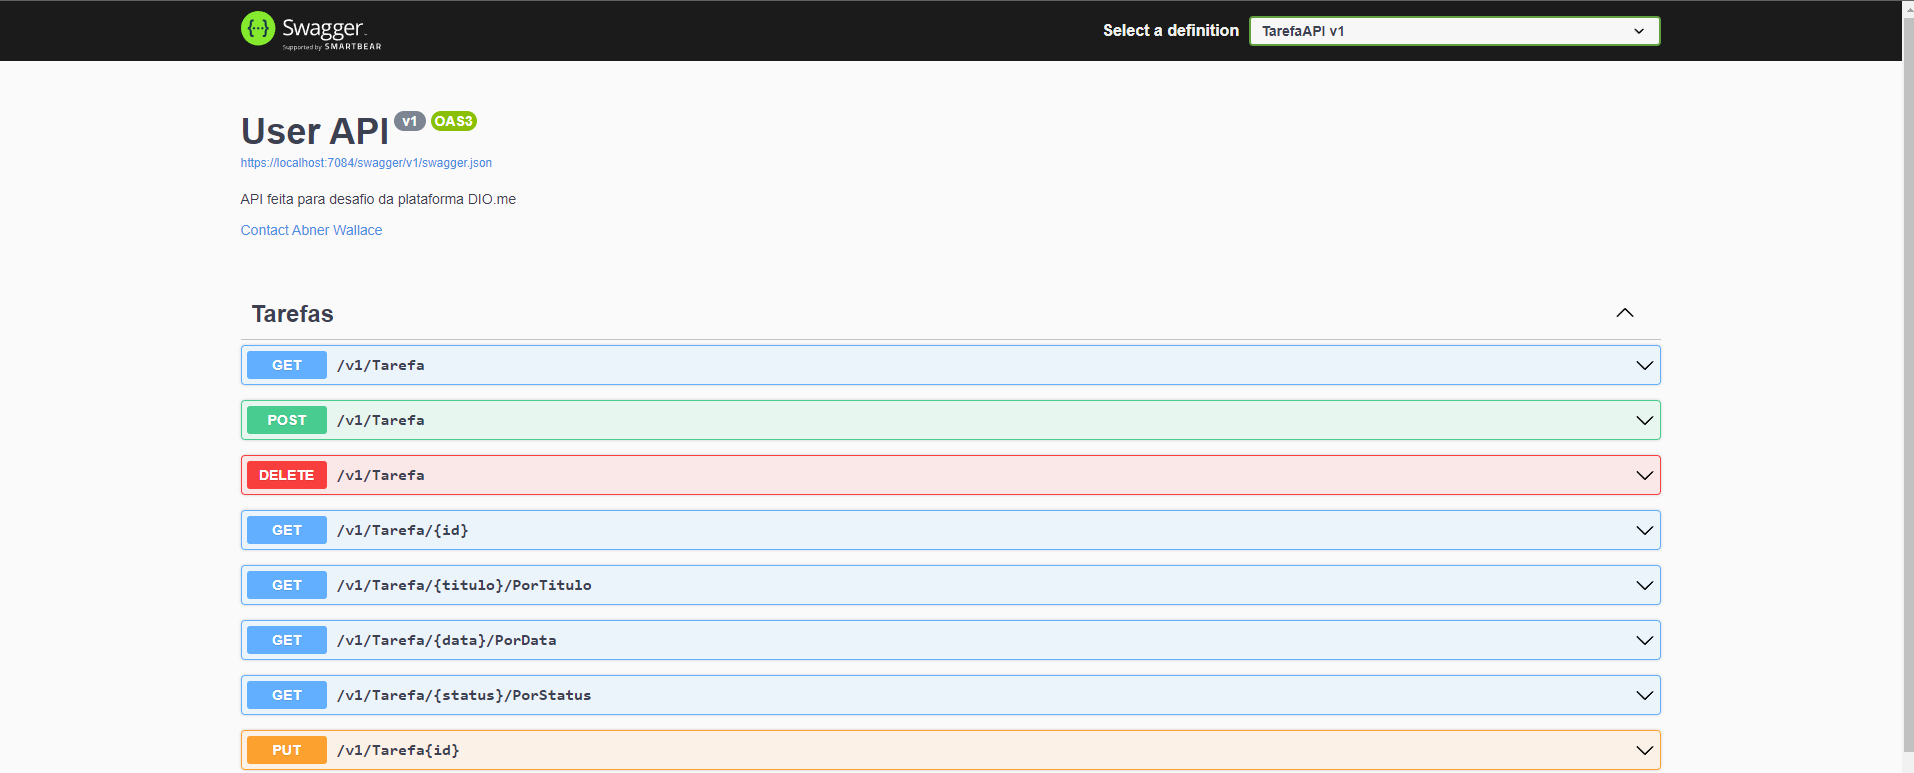
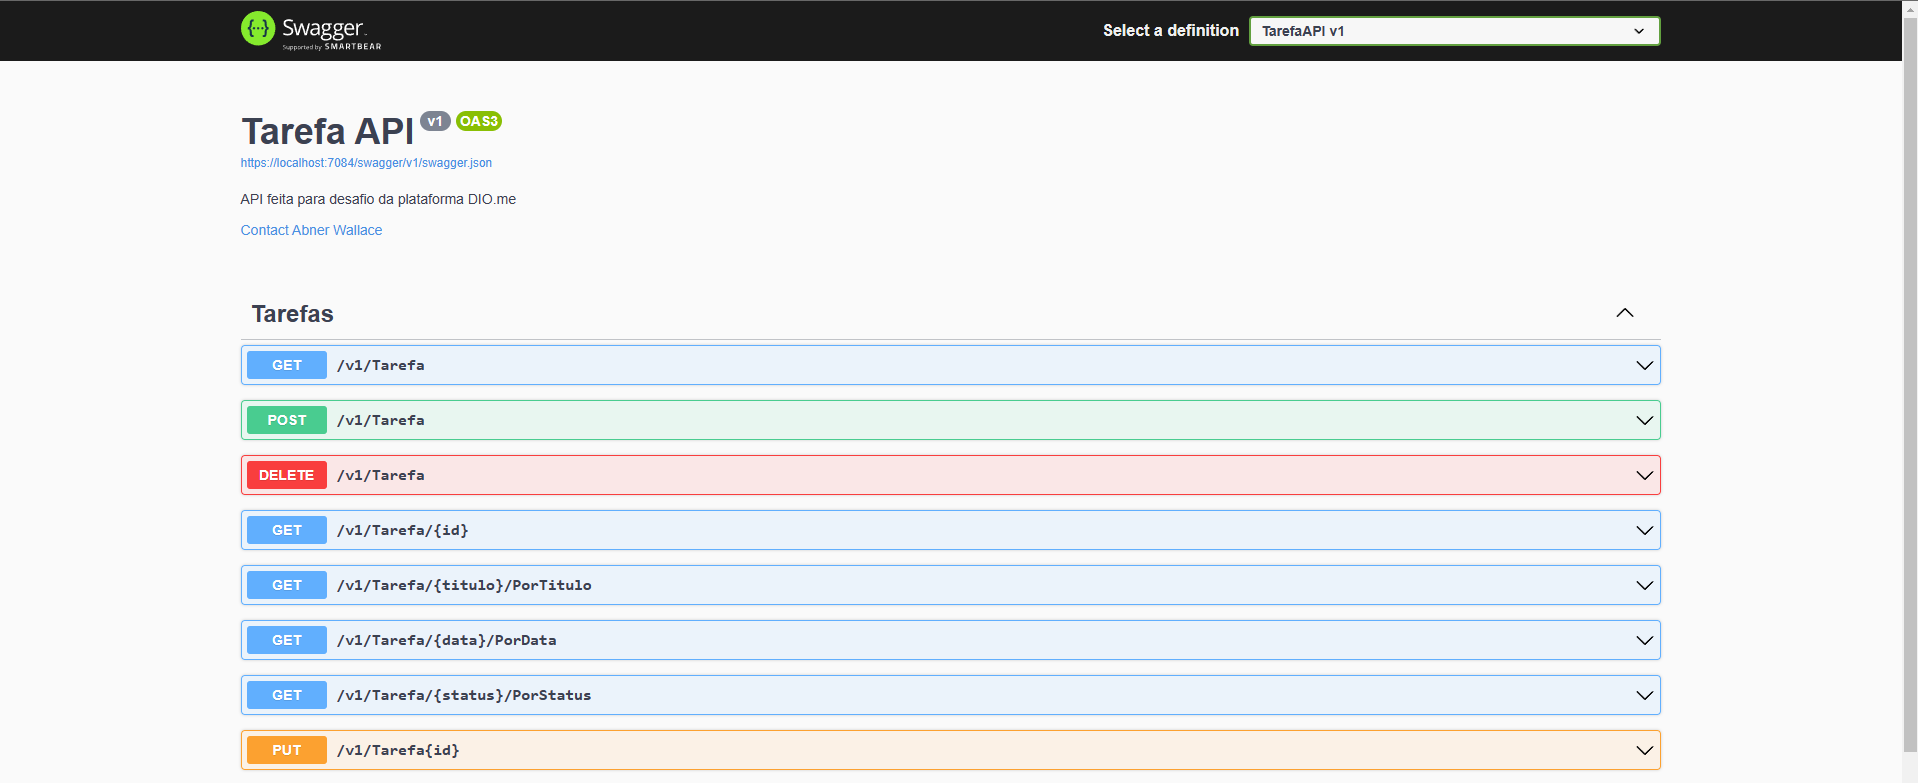
fix: Alterando Swagger

diff --git a/Program.cs b/Program.cs
@@ -32,7 +32,7 @@ builder.Services.AddSwaggerGen(c =>
 
     c.SwaggerDoc("v1", new OpenApiInfo
     {
-        Title = "User API",
+        Title = "Tarefa API",
         Version = "v1",
         Description = "API feita para desafio da plataforma DIO.me",
         Contact = new OpenApiContact
